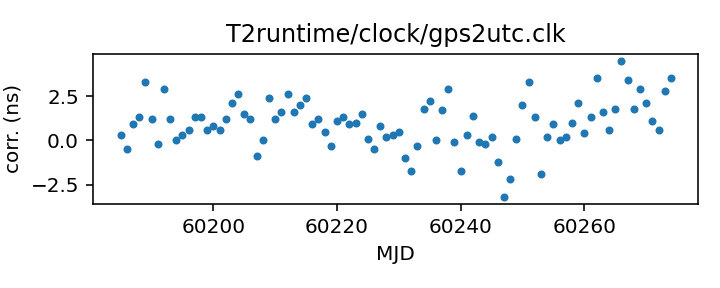
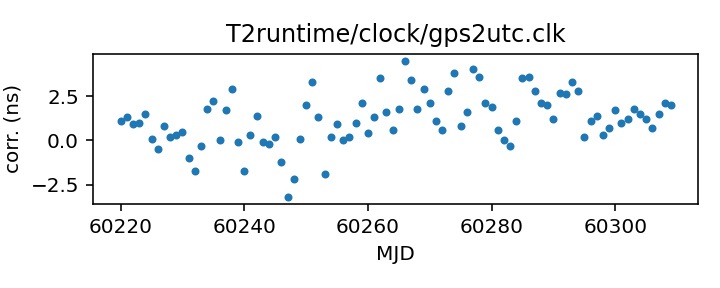
Routine gh-pages update from Github action Fri Jan 12 20:29:49 UTC 2024

diff --git a/status.md b/status.md
@@ -13,17 +13,17 @@ name of each clock file links to a page with more details.
 
 | Name | File | Corrections start | Corrections end | Last check date | Last check result 
 |:--- |:--- | --- | --- | --- |:--- 
-| [GPS to UTC](T2runtime/clock/gps2utc.clk.html) | `T2runtime/clock/gps2utc.clk` | 1993-01-01 MJD 48988.0 | 2023-11-26 MJD 60274.0 | 2024-01-11 | **Failed to download** 
-| [GPS to UTC (Combined Clock)](T2runtime/clock/gps2utc_cc.clk.html) | `T2runtime/clock/gps2utc_cc.clk` | 1993-01-01 MJD 48988.0 | 2023-12-31 MJD 60309.0 | 2024-01-11 | Updated 
-| [GPS to UTC (Corrected)](T2runtime/clock/gps2utc_c0p.clk.html) | `T2runtime/clock/gps2utc_c0p.clk` | 2010-12-29 MJD 55559.0 | 2023-12-31 MJD 60309.0 | 2024-01-11 | Updated 
-| [GBT](tempo/clock/time_gbt.dat.html) | `tempo/clock/time_gbt.dat` | 2000-12-31 MJD 51909.5 | 2023-03-20 MJD 60023.5 | 2024-01-11 | **Validation failed** 
+| [GPS to UTC](T2runtime/clock/gps2utc.clk.html) | `T2runtime/clock/gps2utc.clk` | 1993-01-01 MJD 48988.0 | 2023-12-31 MJD 60309.0 | 2024-01-12 | Updated 
+| [GPS to UTC (Combined Clock)](T2runtime/clock/gps2utc_cc.clk.html) | `T2runtime/clock/gps2utc_cc.clk` | 1993-01-01 MJD 48988.0 | 2023-12-31 MJD 60309.0 | 2024-01-12 | Unchanged 
+| [GPS to UTC (Corrected)](T2runtime/clock/gps2utc_c0p.clk.html) | `T2runtime/clock/gps2utc_c0p.clk` | 2010-12-29 MJD 55559.0 | 2023-12-31 MJD 60309.0 | 2024-01-12 | Unchanged 
+| [GBT](tempo/clock/time_gbt.dat.html) | `tempo/clock/time_gbt.dat` | 2000-12-31 MJD 51909.5 | 2023-03-20 MJD 60023.5 | 2024-01-12 | **Validation failed** 
 | [GBT (TEMPO2 converted from TEMPO)](T2runtime/clock/gbt2gps.clk.html) | `T2runtime/clock/gbt2gps.clk` | 2000-12-31 MJD 51909.5 | 2023-03-20 MJD 60023.5 | 2023-03-21 | Updated 
 | [Jodrell Bank](T2runtime/clock/jb2gps.clk.html) | `T2runtime/clock/jb2gps.clk` | 2006-10-13 MJD 54021.4 | 2023-12-04 MJD 60282.0 | 2024-01-11 | Unchanged 
 | [Jodrell Bank Roach](T2runtime/clock/jbroach2jb.clk.html) | `T2runtime/clock/jbroach2jb.clk` | 2006-10-13 MJD 54021.4 | 2018-03-20 MJD 58197.6 | 2024-01-11 | Unchanged 
 | [Jodrell Bank DFB](T2runtime/clock/jbdfb2jb.clk.html) | `T2runtime/clock/jbdfb2jb.clk` | 2006-10-13 MJD 54021.4 | 2017-05-11 MJD 57884.0 | 2024-01-11 | Unchanged 
 | [Meerkat (observatory)](T2runtime/clock/mk2utc_observatory.clk.html) | `T2runtime/clock/mk2utc_observatory.clk` | 2019-01-01 MJD 58484.0 | 2023-12-28 MJD 60307.0 | 2024-01-11 | Unchanged 
-| [Leap seconds](tempo/clock/leap.sec.html) | `tempo/clock/leap.sec` | 1972-07-01 MJD 41499.0 | 2017-01-01 MJD 57754.0 | 2024-01-11 | Unchanged 
-| [UT1 table](tempo/clock/ut1.dat.html) | `tempo/clock/ut1.dat` | 1973-01-02 MJD 41684.0 | 2025-01-18 MJD 60693.0 | 2024-01-11 | Updated 
+| [Leap seconds](tempo/clock/leap.sec.html) | `tempo/clock/leap.sec` | 1972-07-01 MJD 41499.0 | 2017-01-01 MJD 57754.0 | 2024-01-12 | Unchanged 
+| [UT1 table](tempo/clock/ut1.dat.html) | `tempo/clock/ut1.dat` | 1973-01-02 MJD 41684.0 | 2025-01-18 MJD 60693.0 | 2024-01-12 | Unchanged 
 
 
 

diff --git a/tempo/clock/time_gbt.dat.md b/tempo/clock/time_gbt.dat.md
@@ -20,12 +20,11 @@ If questions arise, contact Ryan S. Lynch <rlynch@nrao.edu>.
 | Clock file start | 2000-12-31 MJD 51909.5 |
 | Clock file end | 2023-03-20 MJD 60023.5 |
 | Update interval (days) | 1 |
-| Last update attempt | 2024-01-11 |
+| Last update attempt | 2024-01-12 |
 | Last update result | Validation failed |
 
 Log entries from the last few update attempts:
 ```
-2024-01-02 20:29:24.517 - Validation failed: New version of tempo/clock/time_gbt.dat clock corrections differ from old version where they overlap in 11 places
 2024-01-03 20:29:24.629 - Validation failed: New version of tempo/clock/time_gbt.dat clock corrections differ from old version where they overlap in 11 places
 2024-01-04 20:29:20.317 - Validation failed: New version of tempo/clock/time_gbt.dat clock corrections differ from old version where they overlap in 11 places
 2024-01-05 20:29:32.531 - Validation failed: New version of tempo/clock/time_gbt.dat clock corrections differ from old version where they overlap in 11 places
@@ -35,6 +34,7 @@ Log entries from the last few update attempts:
 2024-01-09 20:29:18.779 - Validation failed: New version of tempo/clock/time_gbt.dat clock corrections differ from old version where they overlap in 11 places
 2024-01-10 20:29:35.153 - Validation failed: New version of tempo/clock/time_gbt.dat clock corrections differ from old version where they overlap in 11 places
 2024-01-11 20:30:04.668 - Validation failed: New version of tempo/clock/time_gbt.dat clock corrections differ from old version where they overlap in 11 places
+2024-01-12 20:29:21.766 - Validation failed: New version of tempo/clock/time_gbt.dat clock corrections differ from old version where they overlap in 11 places
 ```
 [Full log](https://raw.githubusercontent.com/ipta/pulsar-clock-corrections/main/log/tempo/clock/time_gbt.dat.log)
 

diff --git a/T2runtime/clock/gps2utc.clk.md b/T2runtime/clock/gps2utc.clk.md
@@ -30,14 +30,13 @@ about the BIPM's published corrections, contact <tai@bipm.org>.
 | Format | tempo2 |
 | Bogus last correction | False |
 | Clock file start | 1993-01-01 MJD 48988.0 |
-| Clock file end | 2023-11-26 MJD 60274.0 |
+| Clock file end | 2023-12-31 MJD 60309.0 |
 | Update interval (days) | 1 |
-| Last update attempt | 2024-01-11 |
-| Last update result | Failed to download |
+| Last update attempt | 2024-01-12 |
+| Last update result | Updated |
 
 Log entries from the last few update attempts:
 ```
-2024-01-02 20:29:24.065 - Unchanged
 2024-01-03 20:29:24.092 - Unchanged
 2024-01-04 20:29:19.918 - Unchanged
 2024-01-05 20:29:30.420 - Unchanged
@@ -47,6 +46,7 @@ Log entries from the last few update attempts:
 2024-01-09 20:29:18.350 - Unchanged
 2024-01-10 20:29:34.541 - Unchanged
 2024-01-11 20:29:50.130 - Failed to download: <urlopen error timed out>
+2024-01-12 20:29:21.220 - Updated
 ```
 [Full log](https://raw.githubusercontent.com/ipta/pulsar-clock-corrections/main/log/T2runtime/clock/gps2utc.clk.log)
 

diff --git a/T2runtime/clock/gps2utc_c0p.clk.md b/T2runtime/clock/gps2utc_c0p.clk.md
@@ -30,12 +30,11 @@ about the BIPM's published corrections, contact <tai@bipm.org>.
 | Clock file start | 2010-12-29 MJD 55559.0 |
 | Clock file end | 2023-12-31 MJD 60309.0 |
 | Update interval (days) | 1 |
-| Last update attempt | 2024-01-11 |
-| Last update result | Updated |
+| Last update attempt | 2024-01-12 |
+| Last update result | Unchanged |
 
 Log entries from the last few update attempts:
 ```
-2024-01-02 20:29:24.099 - Unchanged
 2024-01-03 20:29:24.126 - Unchanged
 2024-01-04 20:29:19.952 - Unchanged
 2024-01-05 20:29:30.456 - Unchanged
@@ -45,6 +44,7 @@ Log entries from the last few update attempts:
 2024-01-09 20:29:18.399 - Unchanged
 2024-01-10 20:29:34.579 - Unchanged
 2024-01-11 20:30:03.651 - Updated
+2024-01-12 20:29:21.253 - Unchanged
 ```
 [Full log](https://raw.githubusercontent.com/ipta/pulsar-clock-corrections/main/log/T2runtime/clock/gps2utc_c0p.clk.log)
 

diff --git a/T2runtime/clock/gps2utc_cc.clk.md b/T2runtime/clock/gps2utc_cc.clk.md
@@ -29,12 +29,11 @@ about the BIPM's published corrections, contact <tai@bipm.org>.
 | Clock file start | 1993-01-01 MJD 48988.0 |
 | Clock file end | 2023-12-31 MJD 60309.0 |
 | Update interval (days) | 1 |
-| Last update attempt | 2024-01-11 |
-| Last update result | Updated |
+| Last update attempt | 2024-01-12 |
+| Last update result | Unchanged |
 
 Log entries from the last few update attempts:
 ```
-2024-01-02 20:29:24.090 - Unchanged
 2024-01-03 20:29:24.117 - Unchanged
 2024-01-04 20:29:19.943 - Unchanged
 2024-01-05 20:29:30.446 - Unchanged
@@ -44,6 +43,7 @@ Log entries from the last few update attempts:
 2024-01-09 20:29:18.384 - Unchanged
 2024-01-10 20:29:34.568 - Unchanged
 2024-01-11 20:30:03.626 - Updated
+2024-01-12 20:29:21.244 - Unchanged
 ```
 [Full log](https://raw.githubusercontent.com/ipta/pulsar-clock-corrections/main/log/T2runtime/clock/gps2utc_cc.clk.log)
 

diff --git a/tempo/clock/ut1.dat.md b/tempo/clock/ut1.dat.md
@@ -30,12 +30,11 @@ If there are any questions, contact Anne Archibald
 | File start | 1973-01-02 MJD 41684.0 |
 | File end | 2025-01-18 MJD 60693.0 |
 | Update interval (days) | 0 |
-| Last update attempt | 2024-01-11 |
-| Last update result | Updated |
+| Last update attempt | 2024-01-12 |
+| Last update result | Unchanged |
 
 Log entries from the last few update attempts:
 ```
-2024-01-02 20:29:31.876 - Unchanged
 2024-01-03 20:29:34.118 - Unchanged
 2024-01-04 20:29:40.528 - Updated
 2024-01-05 20:29:40.307 - Unchanged
@@ -45,5 +44,6 @@ Log entries from the last few update attempts:
 2024-01-09 20:29:26.793 - Unchanged
 2024-01-10 20:29:44.469 - Unchanged
 2024-01-11 20:30:34.355 - Updated
+2024-01-12 20:29:31.612 - Unchanged
 ```
 [Full log](https://raw.githubusercontent.com/ipta/pulsar-clock-corrections/main/log/tempo/clock/ut1.dat.log)

diff --git a/tempo/clock/leap.sec.md b/tempo/clock/leap.sec.md
@@ -21,12 +21,11 @@ If there are any questions, contact Anne Archibald
 | File start | 1972-07-01 MJD 41499.0 |
 | File end | 2017-01-01 MJD 57754.0 |
 | Update interval (days) | 0 |
-| Last update attempt | 2024-01-11 |
+| Last update attempt | 2024-01-12 |
 | Last update result | Unchanged |
 
 Log entries from the last few update attempts:
 ```
-2024-01-02 20:29:24.551 - Unchanged
 2024-01-03 20:29:25.298 - Unchanged
 2024-01-04 20:29:32.903 - Unchanged
 2024-01-05 20:29:32.566 - Unchanged
@@ -36,5 +35,6 @@ Log entries from the last few update attempts:
 2024-01-09 20:29:18.814 - Unchanged
 2024-01-10 20:29:35.883 - Unchanged
 2024-01-11 20:30:22.563 - Unchanged
+2024-01-12 20:29:21.802 - Unchanged
 ```
 [Full log](https://raw.githubusercontent.com/ipta/pulsar-clock-corrections/main/log/tempo/clock/leap.sec.log)
